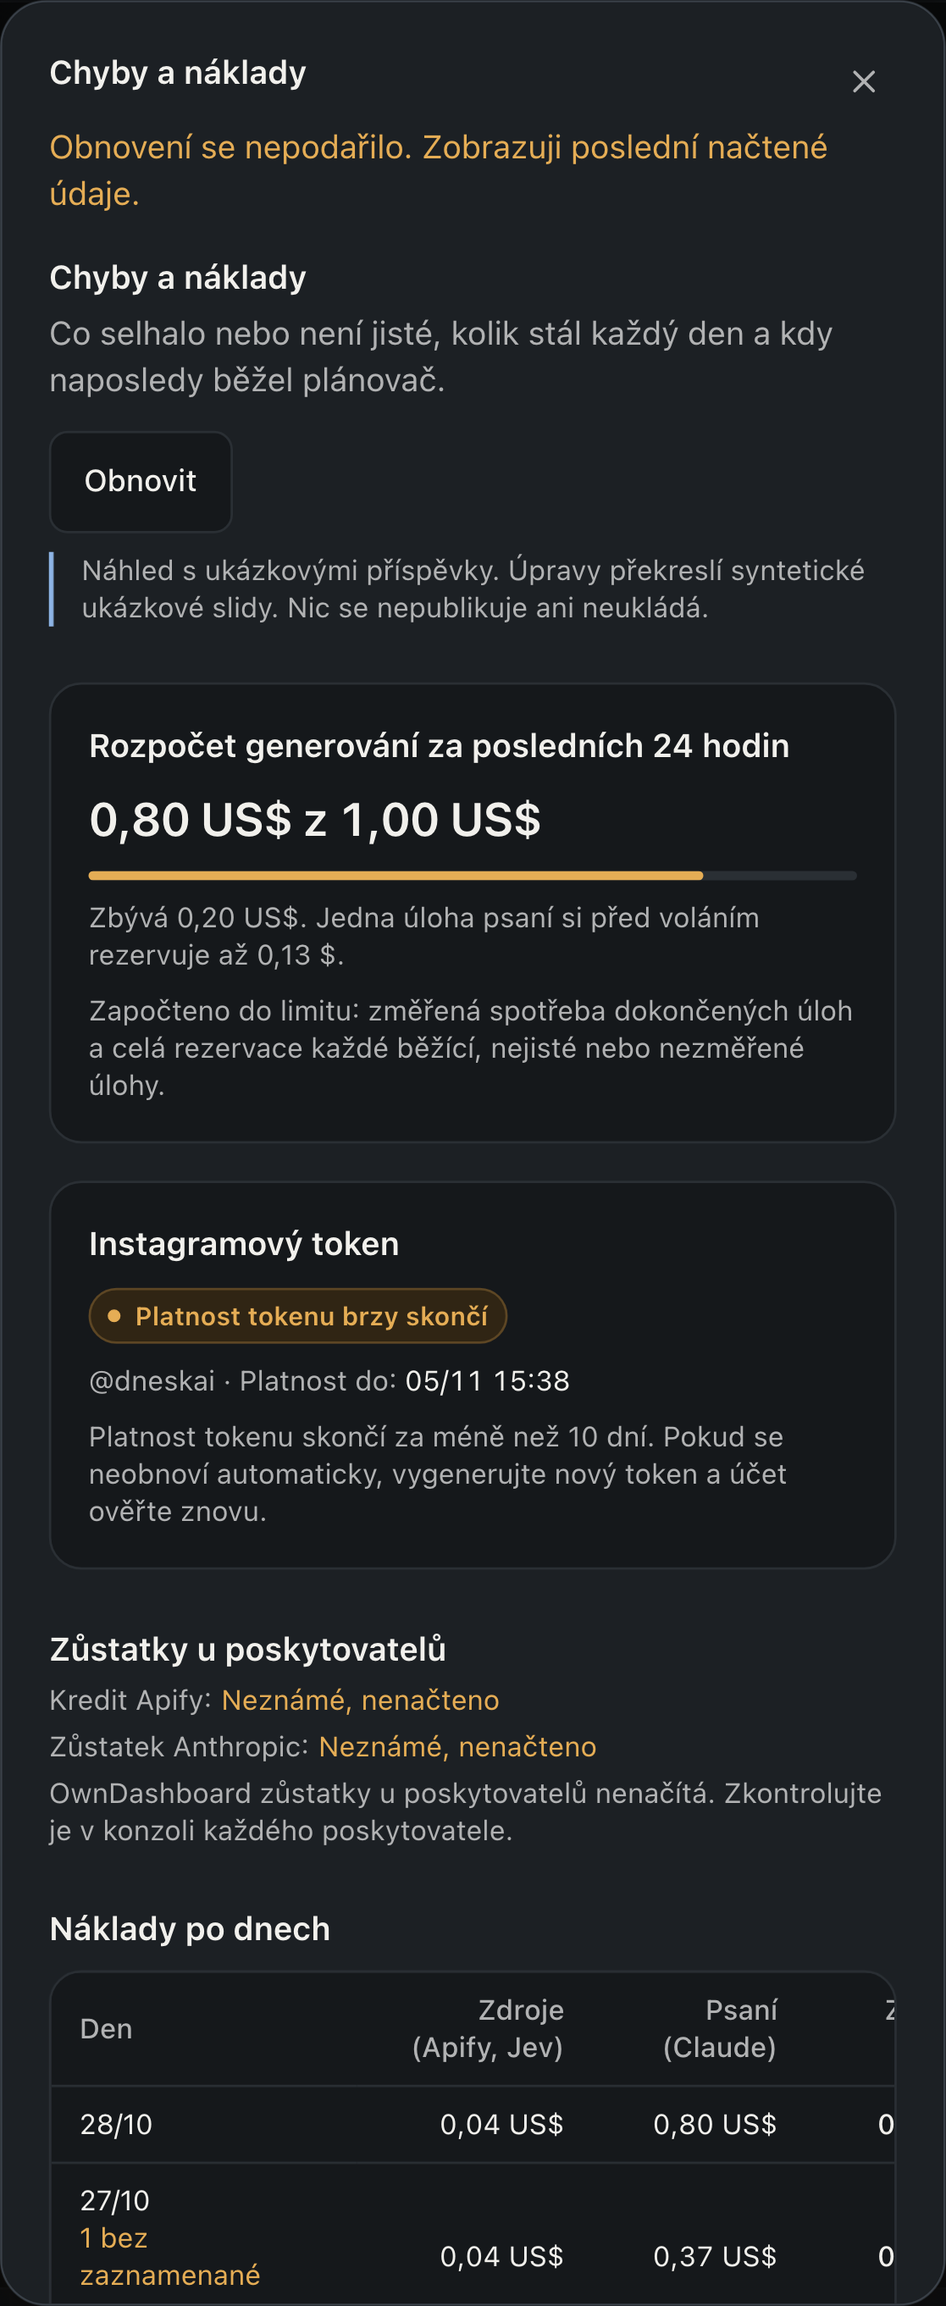
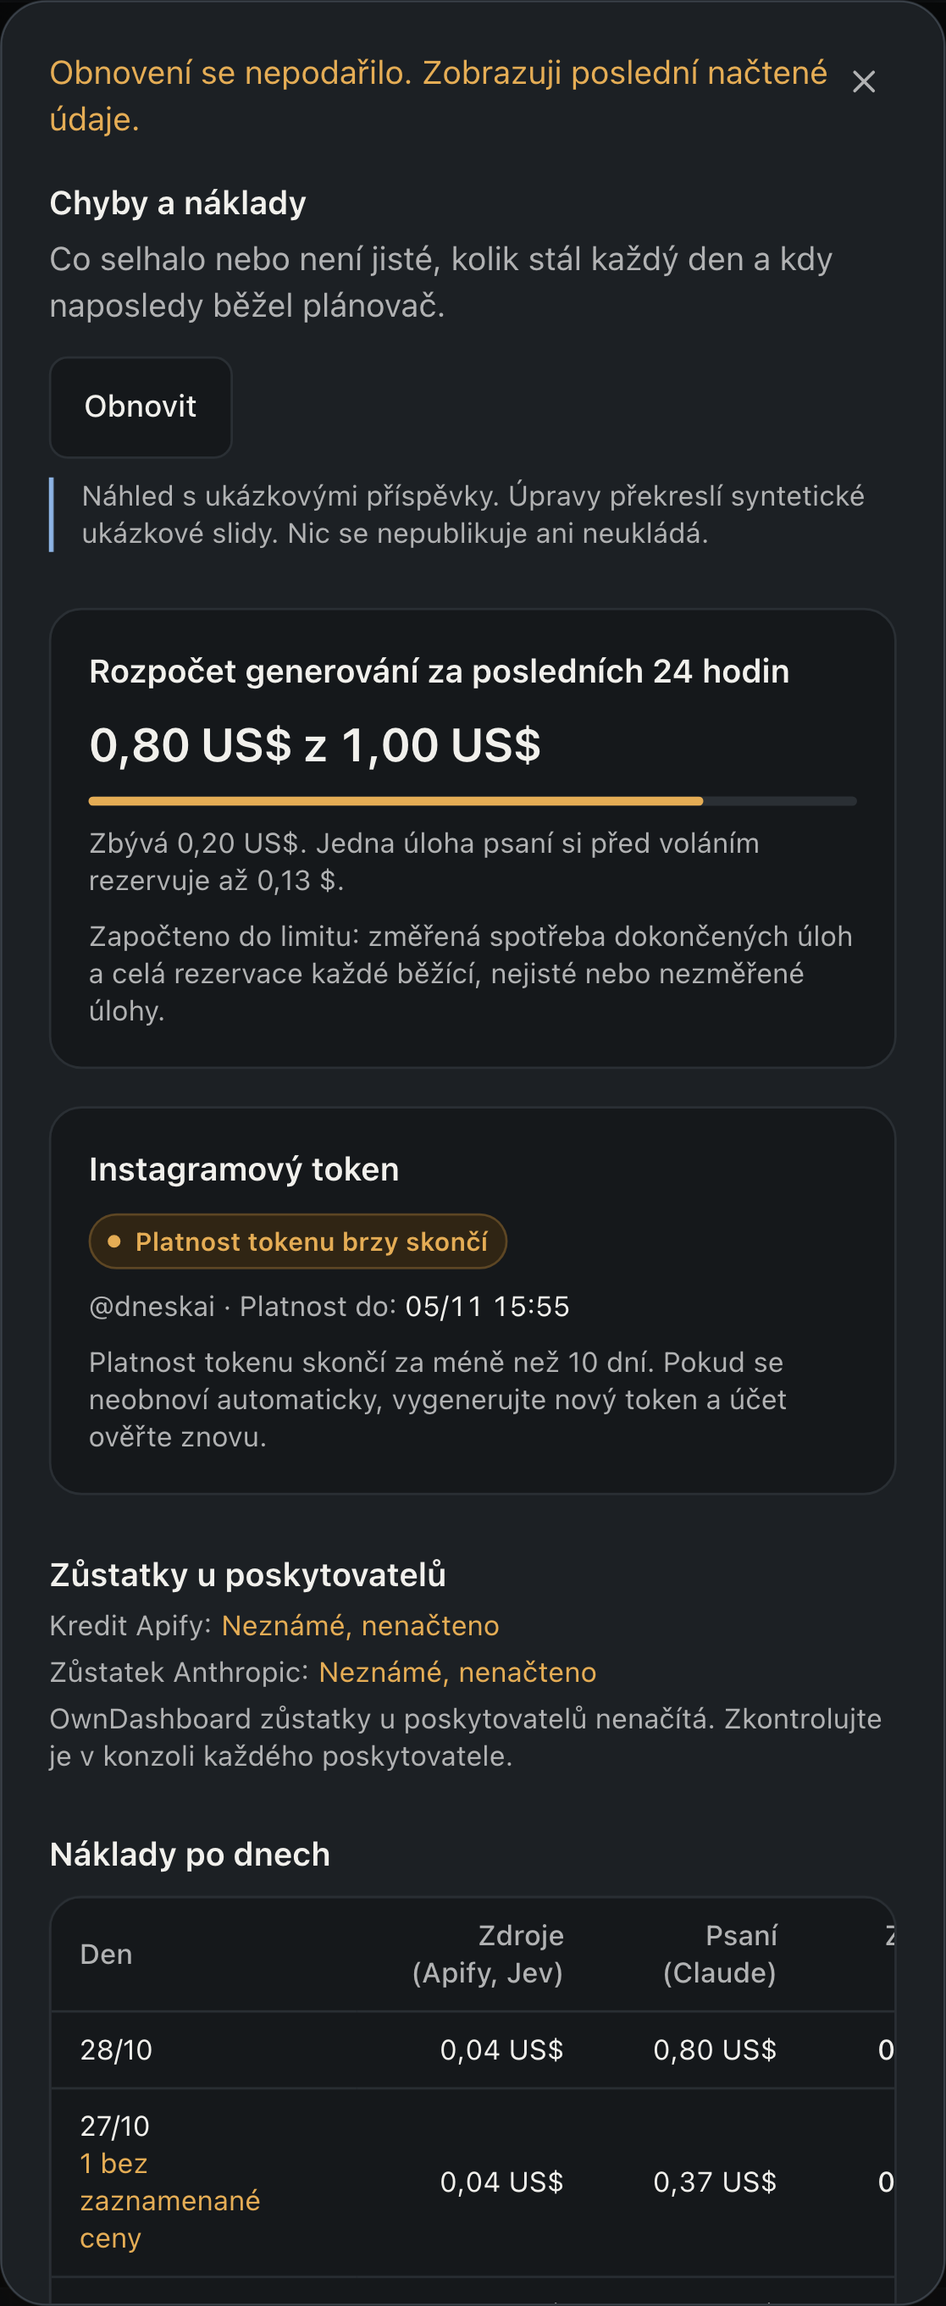
Refresh the costs recovery visual evidence

diff --git a/docs/reports/app-wide-audit-2026-10-23/visual-plan.html b/docs/reports/app-wide-audit-2026-10-23/visual-plan.html
@@ -4,7 +4,7 @@
 :root{color-scheme:light dark;--canvas:#f4f5f7;--surface:#fff;--ink:#1e2329;--muted:#59616c;--line:#d9dee5;--accent:#245db2;--tint:#eaf1fc;--mark:#e5a122;font-family:system-ui,-apple-system,BlinkMacSystemFont,"Segoe UI",sans-serif;line-height:1.55}
 *{box-sizing:border-box}body{margin:0;background:var(--canvas);color:var(--ink)}main{max-width:1240px;margin:auto;padding:40px 24px 64px}h1{font-size:clamp(28px,4vw,42px);letter-spacing:-.035em;line-height:1.15;margin:10px 0 16px}h2{font-size:23px;letter-spacing:-.025em;margin:0}h3{font-size:17px;margin:0 0 8px}p{margin:0 0 14px}.eyebrow{font-size:12px;font-weight:650;letter-spacing:.08em;text-transform:uppercase;color:var(--muted)}.intro{max-width:780px;font-size:17px}.notice{padding:16px 18px;background:var(--tint);border:1px solid var(--line);border-radius:10px;margin:24px 0}.meta,.source{font-size:13px;color:var(--muted)}a{color:var(--accent);text-underline-offset:3px}a:focus-visible,button:focus-visible,input:focus-visible,select:focus-visible,.screen-scroll:focus-visible,.table-scroll:focus-visible{outline:3px solid var(--accent);outline-offset:3px}.toolbar{display:flex;flex-wrap:wrap;align-items:center;gap:12px;border-block:1px solid var(--line);padding:14px 0;margin:26px 0}.segmented{display:inline-flex;gap:4px}button,select{font:inherit;min-height:44px;border:1px solid var(--line);border-radius:7px;background:var(--surface);color:var(--ink);padding:8px 14px}button{cursor:pointer}button[aria-pressed=true]{background:var(--tint);border-color:var(--accent)}label{display:inline-flex;align-items:center;gap:8px;min-height:44px}input[type=checkbox]{width:18px;height:18px;accent-color:var(--accent)}nav{display:flex;flex-wrap:wrap;gap:8px 18px;margin:0 0 28px}nav a{min-height:44px;display:inline-flex;align-items:center}.component{padding:22px;background:var(--surface);border:1px solid var(--line);border-radius:12px;margin-bottom:28px;scroll-margin-top:20px}.component-heading{display:flex;align-items:center;justify-content:space-between;flex-wrap:wrap;gap:12px;margin-bottom:6px}.status{font-size:12px;padding:5px 9px;border-radius:6px;background:var(--tint);color:var(--accent)}.screen-scroll{max-width:var(--capture-width);max-height:660px;overflow:auto;border:1px solid var(--line);border-radius:8px;background:#101214;margin:18px auto}.screen{position:relative;margin:0;width:100%}.screen img{display:block;width:100%;height:auto}.marks{position:absolute;inset:0;pointer-events:none}.mark{position:absolute;border:2px solid var(--mark);border-radius:5px}.mark b{position:absolute;top:0;left:0;background:var(--mark);color:#20170a;padding:2px 7px;font-size:12px}.mobile .screen-scroll{max-width:min(390px,var(--capture-width))}.mobile .screen{max-width:390px;margin:auto}.mobile .marks,.hide-marks .marks{display:none}.mobile:not(.hide-marks) .screen.has-mobile-marks .marks{display:block}ol{padding-left:22px;max-width:88ch}li+li{margin-top:7px}.table-scroll{overflow:auto;border:1px solid var(--line);border-radius:8px;margin-top:18px}table{width:100%;border-collapse:collapse;min-width:700px;text-align:left;font-size:14px}th,td{padding:12px;vertical-align:top;border-bottom:1px solid var(--line)}thead th{background:var(--tint)}tbody th{width:20%}section+section{margin-top:32px}.next-grid{display:grid;grid-template-columns:repeat(auto-fit,minmax(240px,1fr));gap:16px}.next-grid article{background:var(--surface);padding:18px;border:1px solid var(--line);border-radius:9px}.next-grid p{margin:0;font-size:14px}.note{font-size:13px;color:var(--muted)}footer{border-top:1px solid var(--line);margin-top:36px;padding-top:18px;color:var(--muted);font-size:13px}@media(prefers-color-scheme:dark){:root{--canvas:#101214;--surface:#191c20;--ink:#edf0f4;--muted:#adb5c0;--line:#343b45;--accent:#98bbf6;--tint:#233249}}@media(max-width:600px){main{padding:24px 14px 44px}.component{padding:14px}.status{font-size:11px}.toolbar{gap:8px}.source{overflow-wrap:anywhere}}@media print{.toolbar,nav{display:none}.screen-scroll{max-height:none;overflow:visible}.component{break-inside:avoid}body{background:white;color:black}}
 </style></head><body><main>
-<header><p class="eyebrow">OwnDashboard · code and UX audit</p><h1>Components and remaining review</h1><p class="intro">This working plan highlights real components already changed and keeps the remaining review visible. All images are authentic preview captures using documented fixture data.</p><p class="meta">Review source snapshot <strong>7be81d77</strong> · 723 inventory entries · 0 awaiting review · 190 in partial review. Capture provenance appears on each component; older images were not recaptured at this review snapshot.</p></header>
+<header><p class="eyebrow">OwnDashboard · code and UX audit</p><h1>Components and remaining review</h1><p class="intro">This working plan highlights real components already changed and keeps the remaining review visible. All images are authentic preview captures using documented fixture data.</p><p class="meta">Review source snapshot <strong>07cd4f48</strong> · 723 inventory entries · 0 awaiting review · 190 in partial review. Capture provenance appears on each component; older images were not recaptured at this review snapshot.</p></header>
 <div class="notice" role="note"><strong>The app-wide audit is still in progress.</strong> The source reading pass is complete; findings, rendered checks and production release remain separate steps. Main merge, prepared migrations and final release checks remain pending. <a href="review.md">Read the evidence and limitations</a>.</div>
 <div class="toolbar"><div class="segmented" role="group" aria-label="Screenshot viewport"><button type="button" data-view="desktop" aria-pressed="true">Desktop</button><button type="button" data-view="mobile" aria-pressed="false">Mobile</button></div><label><input id="highlights" type="checkbox" checked>Highlight changed areas</label><span class="note">Mobile captures retain their height; mapped mobile highlights are available on the client form.</span></div>
 <nav aria-label="Review areas"><a href="#workspace-review-initial">DNESKAi posts: compact read recovery</a><a href="#workspace-review-cached">DNESKAi posts: retained failed refresh</a><a href="#workspace-costs-initial">DNESKAi costs: compact read recovery</a><a href="#workspace-costs-cached">DNESKAi costs: retained failed refresh</a><a href="#account-verification-recovery">Instagram: compact verification recovery</a><a href="#account-controls">Instagram: compact captured account controls</a><a href="#account-recovery">Instagram: retained account and explicit recovery</a><a href="#music-upload-recovery">Music: retained original upload and safe retry</a><a href="#music-toggle-recovery">Music: captured changes and read recovery</a><a href="#music-cached-recovery">Music: recover cached and saved-track reads</a><a href="#music-recovery">Music: retained tracks and clear recovery</a><a href="#career-template-picker">Career: complete template search with bounded choices</a><a href="#career-history-pages">Career: bounded history with complete local pages</a><a href="#career-previous-pages">Career: fitted previous-letter sidebar</a><a href="#career-application-row">Career: complete rows and matching actions</a><a href="#career-oslo-letter">Career: preserved private Oslo drafts</a><a href="#career-template-draft">Career: independent letter and template drafts</a><a href="#career-template">Career: retained templates and confirmed removal</a><a href="#career-letter-toolbar">Career: one letter heading and aligned template controls</a><a href="#career-letter">Career: retained existing letters and confirmed removal</a><a href="#career-progress">Career: atomic progress and retained contact edits</a><a href="#career-application">Career: reachable letters and retained application drafts</a><a href="#career-saved">Career: retained manual details and protected private history</a><a href="#career-triage">Career: retained selection and confirmed changes</a><a href="#career-save-recovery">Career: confirmed saves and compact retry</a><a href="#career-board-pages">Career: complete stage columns and retained move focus</a><a href="#career-refresh">Career: compact, retained refresh recovery</a><a href="#plans-board">Goals: centred board and matching actions</a><a href="#plans-paging">Goals: compact timeline and complete local pages</a><a href="#plans-editor">Goals: compact retained creation draft</a><a href="#plans-recurring">Home: readable recurring goals and confirmed completion</a><a href="#settings-export-ready">Settings: compact supported data downloads</a><a href="#settings-export-recovery">Settings: retained selection and download recovery</a><a href="#competition-editor">Competition: retained draft and URL validation</a><a href="#competition-recovery">Competition: retained records and explicit recovery</a><a href="#competition-paging">Competition: centered rows and local paging</a><a href="#client-refresh">Clients: visible refresh and action recovery</a><a href="#client-registry">Client draft: captured fill and retained saves</a><a href="#spend-categories">Confirmed category choices</a><a href="#private-preferences">Settings: private drafts and matching fields</a><a href="#editor-typography">Notes: consistent native typography</a><a href="#legacy-headline">DNESKAi: recover a legacy first slide</a><a href="#task-creation">Tasks: retained drafts and confirmed creation</a><a href="#task-density">Tasks: centered groups and compact rows</a><a href="#native-focus">Keyboard focus and native dark controls</a><a href="#weekly-review">Weekly planning: retained drafts and compact actions</a><a href="#invoice-save">Invoice save recovery and reachable actions</a><a href="#audio-preview">Music preview failure and link recovery</a><a href="#install">Installation prompt and shared action sizes</a><a href="#source-edit">Source settings and retained drafts</a><a href="#daily-mix">Daily publishing limits and draft recovery</a><a href="#login">Sign-in and recovery</a><a href="#repository">Repository notes</a><a href="#operations">Project operations and note recovery</a><a href="#project-details">Project edit recovery</a><a href="#history">Repository activity</a><a href="#feedback">Notifications and mobile navigation</a><a href="#guest-notice">Guest tour notice and privacy</a><a href="#finance">Money overview</a><a href="#monitoring">Cron history</a><a href="#remaining">Remaining work</a><a href="#coverage">Page coverage</a></nav>
@@ -22,16 +22,16 @@
 <ol><li>Confirmed content stays mounted after a refresh fails. An unsaved Lab caption survives; the existing Refresh is the only retry action.</li><li>A single warning explains that the last loaded data remains visible. Failed render polling pauses until an explicit successful read.</li><li>Calendar completeness, direct-cursor labels and captured writes remain separate review items.</li></ol></article>
 <article id="workspace-costs-initial" class="component">
 <div class="component-heading"><h2>DNESKAi costs: compact read recovery</h2><span class="status">Read recovery, retained content, keyboard focus and axe checked · remaining lifecycle/release pending</span></div>
-<p class="source">src/components/marketing/dneskai/workspace.tsx · Czech dark · Actual synthetic workspace recovery crops · Finding 362, application 7be81d77, 28 October</p>
+<p class="source">src/components/marketing/dneskai/workspace.tsx · Czech dark · Actual synthetic workspace recovery crops · Finding 363, application 07cd4f48, 28 October</p>
 <div class="screen-scroll" style="--capture-width:535.65625px" role="region" aria-label="DNESKAi costs: compact read recovery screenshot" tabindex="0"><figure class="screen has-mobile-marks" data-desktop-marks="[{&quot;n&quot;:1,&quot;x&quot;:0,&quot;y&quot;:27.272727272727273,&quot;w&quot;:67.88985473426288,&quot;h&quot;:45.45454545454545},{&quot;n&quot;:2,&quot;x&quot;:70.13009742722129,&quot;y&quot;:0,&quot;w&quot;:29.869902572778717,&quot;h&quot;:100}]" data-mobile-marks="[{&quot;n&quot;:1,&quot;x&quot;:0,&quot;y&quot;:0,&quot;w&quot;:100,&quot;h&quot;:26.31578947368421},{&quot;n&quot;:2,&quot;x&quot;:0,&quot;y&quot;:42.10526315789474,&quot;w&quot;:100,&quot;h&quot;:57.89473684210526}]" data-desktop="assets/workspace-costs-initial-cs-1440.png" data-mobile="assets/workspace-costs-initial-cs-430.png"><img src="assets/workspace-costs-initial-cs-1440.png" alt="Actual dev-preview capture of DNESKAi costs: compact read recovery" loading="lazy" width="1440">
 <div class="marks" aria-hidden="true"><span class="mark" style="left:0%;top:27.272727272727273%;width:67.88985473426288%;height:45.45454545454545%"><b>1</b></span><span class="mark" style="left:70.13009742722129%;top:0%;width:29.869902572778717%;height:100%"><b>2</b></span></div></figure></div>
 <ol><li>One centred desktop message/action row replaces a full-width error without recovery. Phone actions match the message width and retain a 44px target.</li><li>Explicit keyboard retry focuses the loaded heading or Lab action. Existing user focus wins, and duplicate reads share one in-flight attempt.</li><li>The public tour ignores this fixture control. No real account or provider is used.</li></ol></article>
 <article id="workspace-costs-cached" class="component">
 <div class="component-heading"><h2>DNESKAi costs: retained failed refresh</h2><span class="status">Read recovery, retained content, keyboard focus and axe checked · remaining lifecycle/release pending</span></div>
-<p class="source">src/components/marketing/dneskai/workspace.tsx · Czech dark · Actual synthetic workspace recovery crops · Finding 362, application 7be81d77, 28 October</p>
-<div class="screen-scroll" style="--capture-width:1024px" role="region" aria-label="DNESKAi costs: retained failed refresh screenshot" tabindex="0"><figure class="screen has-mobile-marks" data-desktop-marks="[{&quot;n&quot;:1,&quot;x&quot;:2.05078125,&quot;y&quot;:5.353535353535354,&quot;w&quot;:95.8984375,&quot;h&quot;:2.0202020202020203},{&quot;n&quot;:2,&quot;x&quot;:2.05078125,&quot;y&quot;:2.121212121212121,&quot;w&quot;:93.5546875,&quot;h&quot;:2.0202020202020203},{&quot;n&quot;:3,&quot;x&quot;:90.27557373046875,&quot;y&quot;:8.98989898989899,&quot;w&quot;:7.67364501953125,&quot;h&quot;:3.2323232323232323}]" data-mobile-marks="[{&quot;n&quot;:1,&quot;x&quot;:5.172413793103448,&quot;y&quot;:5.353535353535354,&quot;w&quot;:89.65517241379311,&quot;h&quot;:4.040404040404041},{&quot;n&quot;:2,&quot;x&quot;:5.172413793103448,&quot;y&quot;:2.121212121212121,&quot;w&quot;:83.74384236453201,&quot;h&quot;:2.0202020202020203},{&quot;n&quot;:3,&quot;x&quot;:5.172413793103448,&quot;y&quot;:18.68686868686869,&quot;w&quot;:19.354217980295566,&quot;h&quot;:4.444444444444445}]" data-desktop="assets/workspace-costs-cached-cs-1440.png" data-mobile="assets/workspace-costs-cached-cs-430.png"><img src="assets/workspace-costs-cached-cs-1440.png" alt="Actual dev-preview capture of DNESKAi costs: retained failed refresh" loading="lazy" width="1440">
-<div class="marks" aria-hidden="true"><span class="mark" style="left:2.05078125%;top:5.353535353535354%;width:95.8984375%;height:2.0202020202020203%"><b>1</b></span><span class="mark" style="left:2.05078125%;top:2.121212121212121%;width:93.5546875%;height:2.0202020202020203%"><b>2</b></span><span class="mark" style="left:90.27557373046875%;top:8.98989898989899%;width:7.67364501953125%;height:3.2323232323232323%"><b>3</b></span></div></figure></div>
-<ol><li>Confirmed content stays mounted after a refresh fails. An unsaved Lab caption survives; the existing Refresh is the only retry action.</li><li>A single warning explains that the last loaded data remains visible. Failed render polling pauses until an explicit successful read.</li><li>This dated capture also exposes the duplicate costs heading and separate token recovery, both next work.</li></ol></article>
+<p class="source">src/components/marketing/dneskai/workspace.tsx · Czech dark · Actual synthetic workspace recovery crops · Finding 363, application 07cd4f48, 28 October</p>
+<div class="screen-scroll" style="--capture-width:1024px" role="region" aria-label="DNESKAi costs: retained failed refresh screenshot" tabindex="0"><figure class="screen has-mobile-marks" data-desktop-marks="[{&quot;n&quot;:1,&quot;x&quot;:2.05078125,&quot;y&quot;:2.121212121212121,&quot;w&quot;:95.8984375,&quot;h&quot;:2.0202020202020203},{&quot;n&quot;:2,&quot;x&quot;:2.05078125,&quot;y&quot;:5.757575757575758,&quot;w&quot;:49.88861083984375,&quot;h&quot;:2.0202020202020203},{&quot;n&quot;:3,&quot;x&quot;:90.27557373046875,&quot;y&quot;:5.757575757575758,&quot;w&quot;:7.67364501953125,&quot;h&quot;:3.2323232323232323}]" data-mobile-marks="[{&quot;n&quot;:1,&quot;x&quot;:5.172413793103448,&quot;y&quot;:2.121212121212121,&quot;w&quot;:89.65517241379311,&quot;h&quot;:4.040404040404041},{&quot;n&quot;:2,&quot;x&quot;:5.172413793103448,&quot;y&quot;:7.777777777777778,&quot;w&quot;:89.65517241379311,&quot;h&quot;:2.0202020202020203},{&quot;n&quot;:3,&quot;x&quot;:5.172413793103448,&quot;y&quot;:15.454545454545455,&quot;w&quot;:19.354217980295566,&quot;h&quot;:4.444444444444445}]" data-desktop="assets/workspace-costs-cached-cs-1440.png" data-mobile="assets/workspace-costs-cached-cs-430.png"><img src="assets/workspace-costs-cached-cs-1440.png" alt="Actual dev-preview capture of DNESKAi costs: retained failed refresh" loading="lazy" width="1440">
+<div class="marks" aria-hidden="true"><span class="mark" style="left:2.05078125%;top:2.121212121212121%;width:95.8984375%;height:2.0202020202020203%"><b>1</b></span><span class="mark" style="left:2.05078125%;top:5.757575757575758%;width:49.88861083984375%;height:2.0202020202020203%"><b>2</b></span><span class="mark" style="left:90.27557373046875%;top:5.757575757575758%;width:7.67364501953125%;height:3.2323232323232323%"><b>3</b></span></div></figure></div>
+<ol><li>Confirmed content stays mounted after a refresh fails. An unsaved Lab caption survives; the existing Refresh is the only retry action.</li><li>A single warning explains that the last loaded data remains visible. Failed render polling pauses until an explicit successful read.</li><li>The dialog has one visible heading. Its existing Refresh also retries account status; confirmed account metadata survives a failed read with a separate warning.</li></ol></article>
 <article id="account-verification-recovery" class="component">
 <div class="component-heading"><h2>Instagram: compact verification recovery</h2><span class="status">Captured verification, compact feedback, focus, reflow and axe checked · migration/release pending</span></div>
 <p class="source">src/components/marketing/dneskai-instagram-account.tsx · Czech dark · Actual isolated verification-conflict crops · Finding 356, application fa310322, 28 October</p>

diff --git a/docs/reports/app-wide-audit-2026-10-23/review.md b/docs/reports/app-wide-audit-2026-10-23/review.md
@@ -3090,3 +3090,6 @@ The related four-file set passes 74 cases in 22.83 seconds, including both langu
 The combined frozen-source desktop matrix has 55 passes and one console-warning failure in 3.3 minutes. The remaining initial-review EN/light 1440px case passes its behavior, geometry, axe and focus assertions but records the existing React pre-mount warning. Five unchanged repetitions with a non-suppressing stack diagnostic pass in 17.8 seconds without reproducing the warning; they establish recovered coverage, not its cause or a clean consolidated matrix. The diagnostic file is removed afterward. All ten focused mobile cases pass in 36.1 seconds, including account initial/cached recovery, one title, keyboard focus and scoped axe. The warning remains an explicit final development/optimized-release lead; no deadline is increased or message filtered.
 
 Source review also confirms that private and fixture workspaces mount independently owned query clients, with the public guest boundary additionally blocking protected requests. There is no mutable private/preview mode switch in a retained workspace; sharing the review key spelling does not by itself prove cache contamination. No speculative new cache namespace or request is added. Operational docs now describe confirmed-data retention and explicit read recovery. The ledger remains 723 entries/190 partial statuses. No SQL, managed/provider/model operation, publication, message, deployment or spend occurs. Calendar completeness, linked cursor-depth labels, captured requeue/writes, the recurring warning, remaining page/source work, canonical migration rollout, consolidated release and main merge remain unfinished.
+
+
+The sixty-pair visual plan now references review snapshot 07cd4f48. Its four costs crops are recaptured from that application, with one visible title and updated normalized highlights; the review crops retain their explicit 7be81d77 provenance. All sixty images decode in both modes, light/dark 390/1440px reflow and mapped highlight controls pass without page errors.
